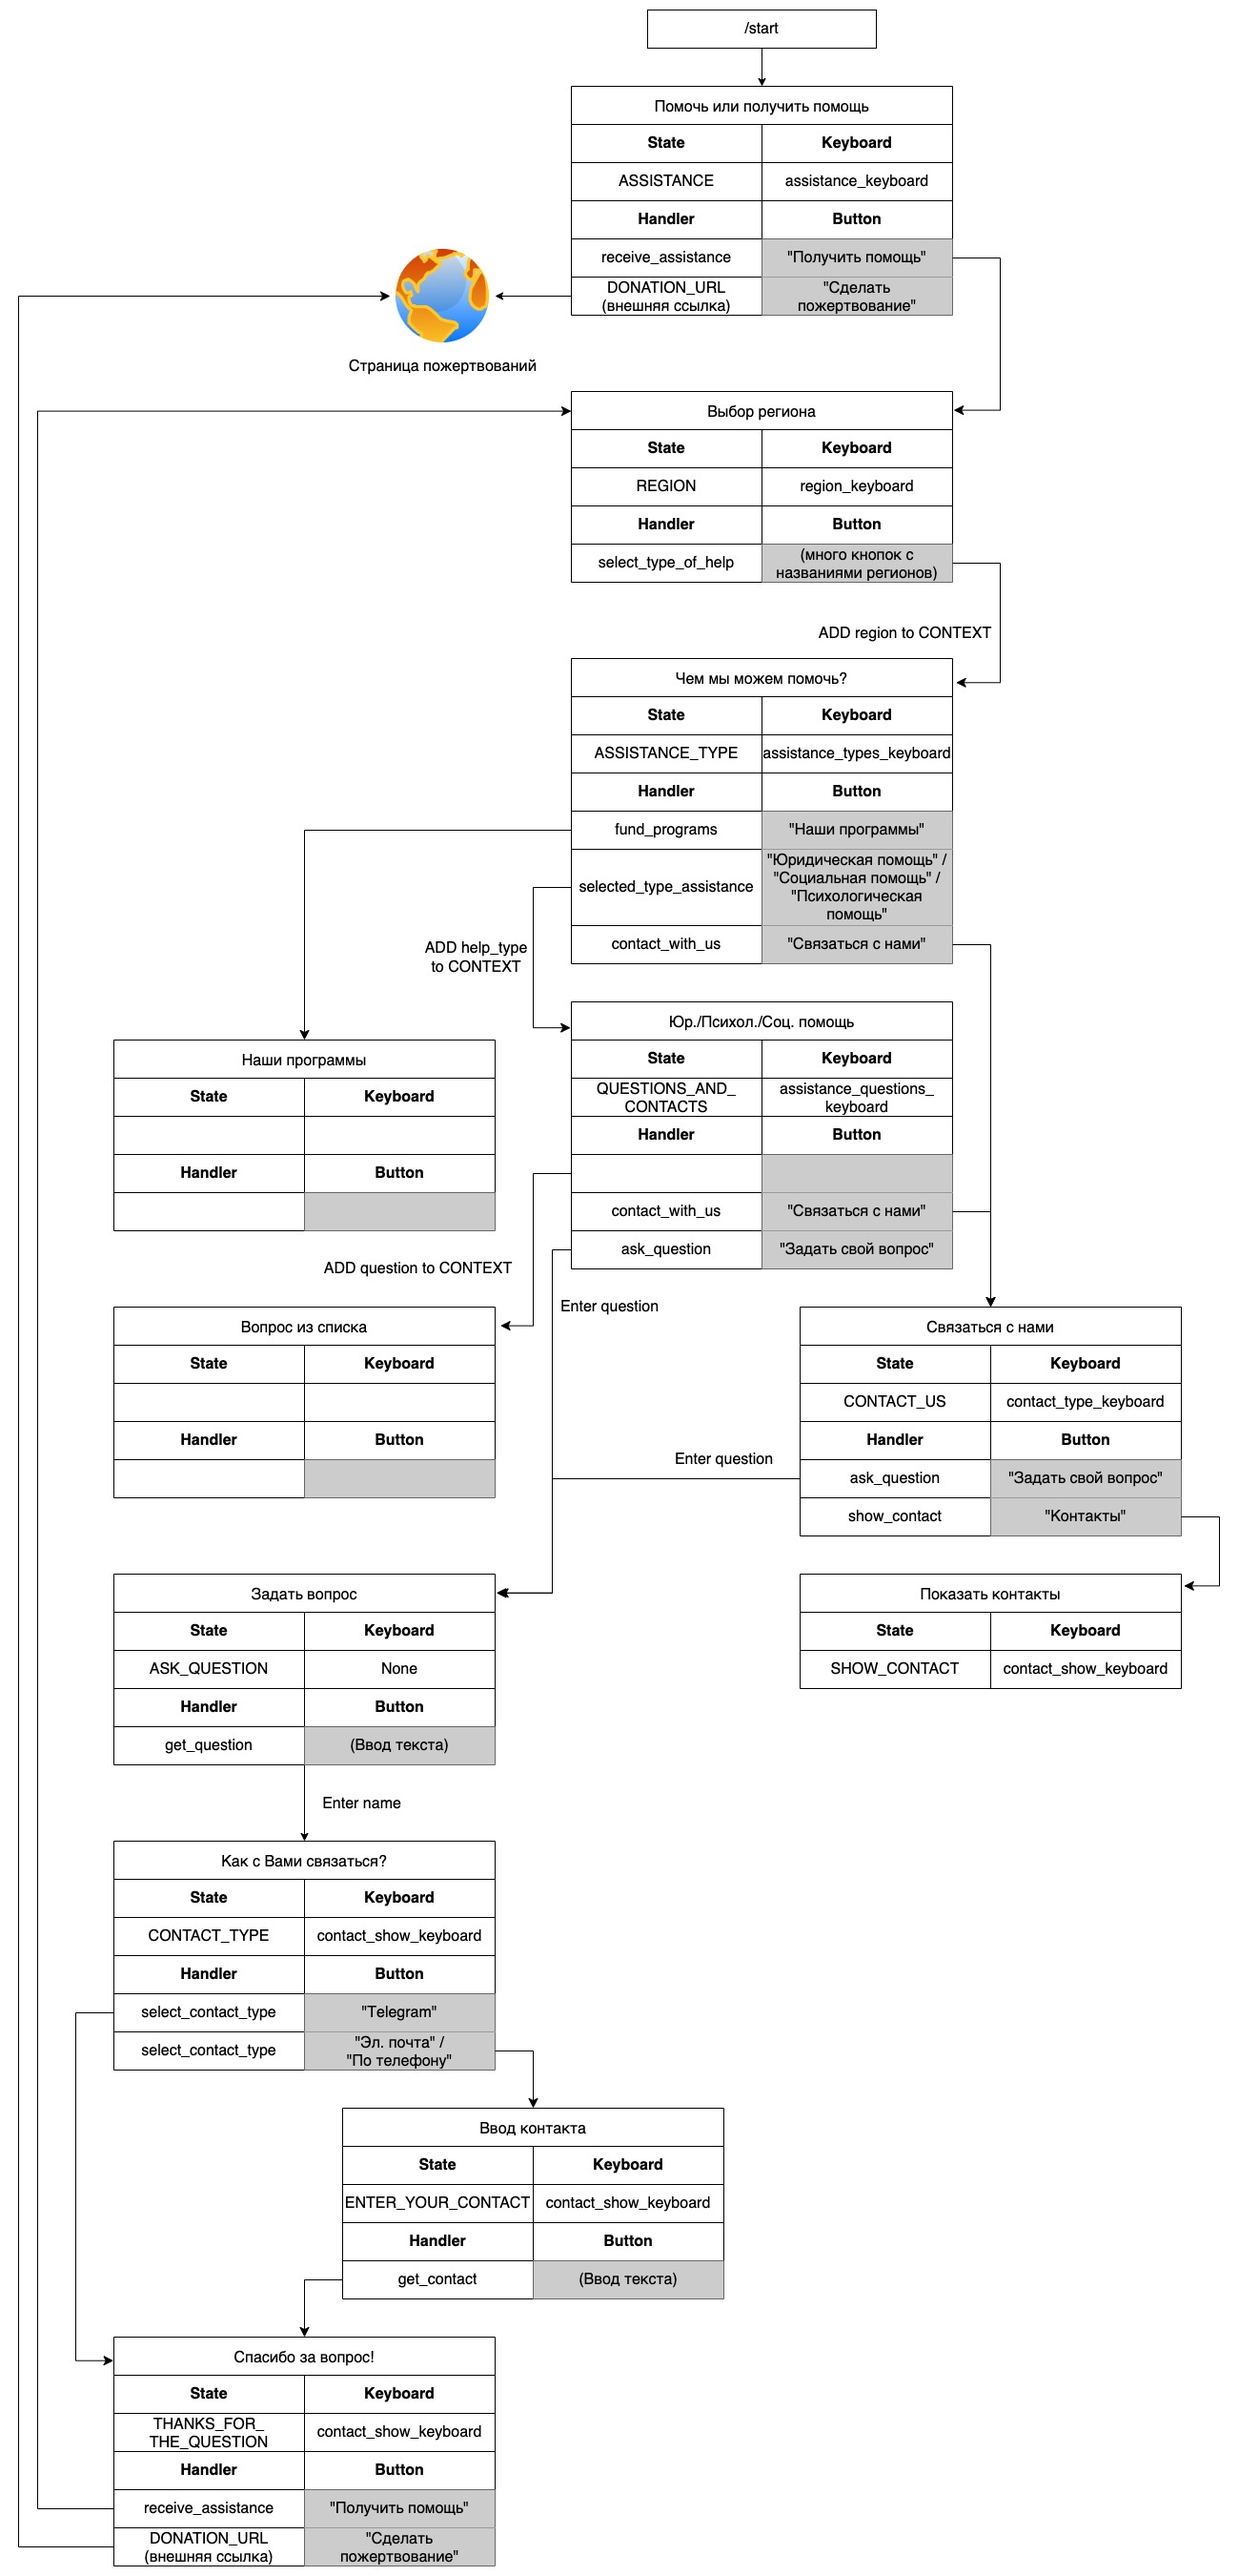
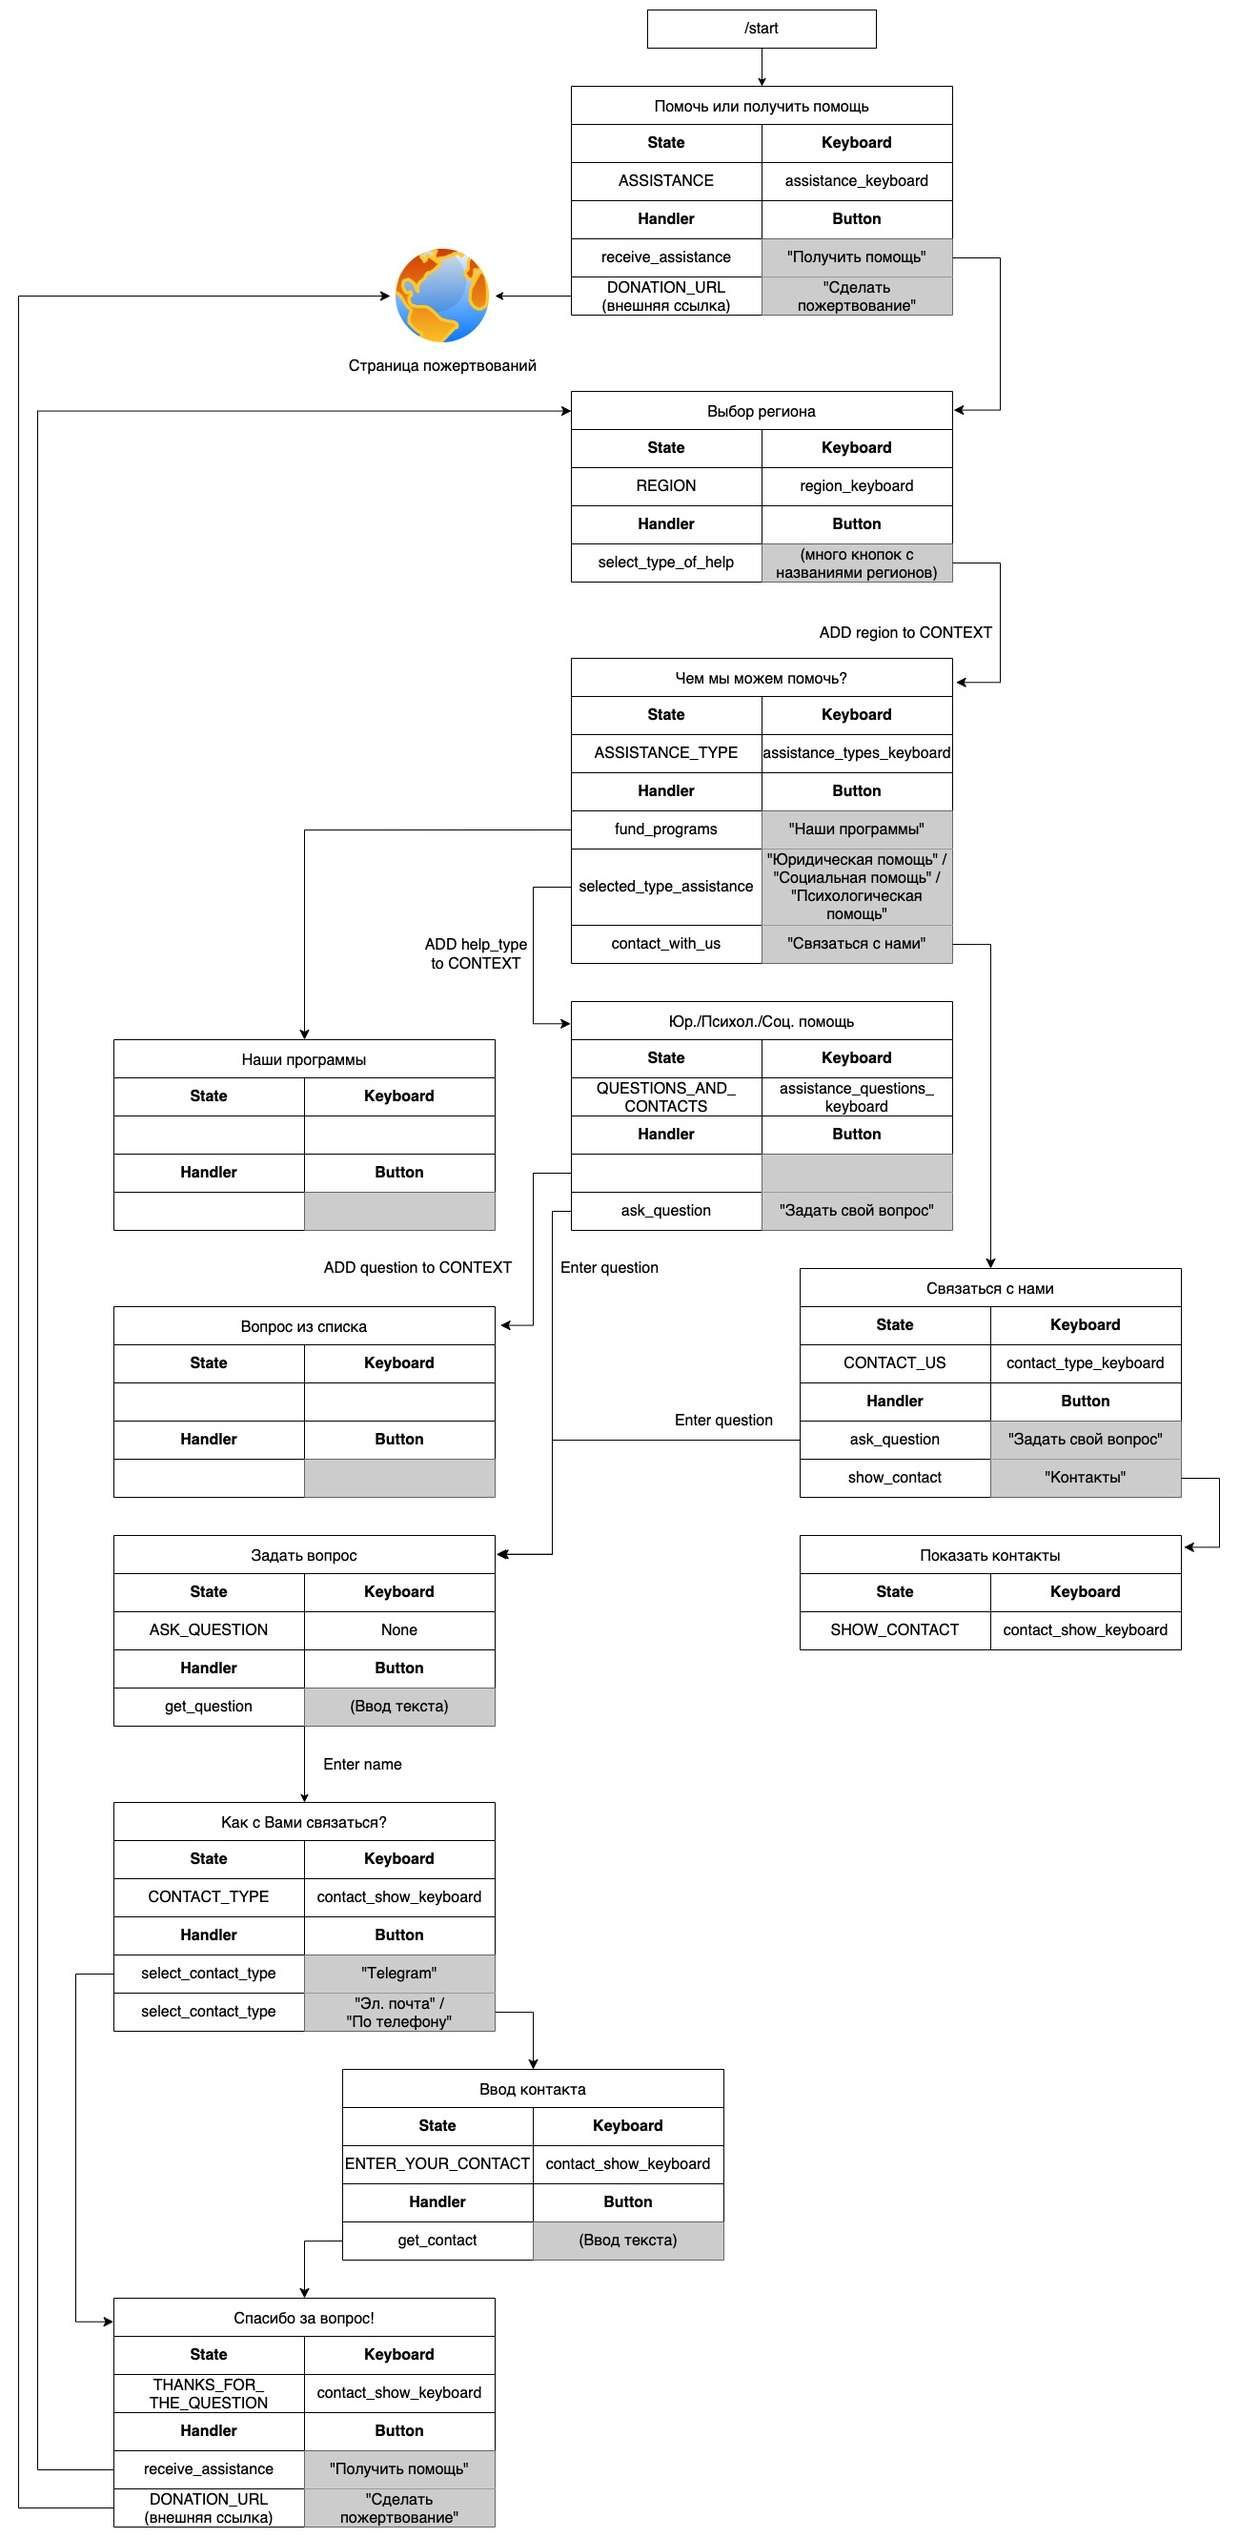
remove contact as button

diff --git a/src/run_bot.py b/src/run_bot.py
@@ -129,10 +129,6 @@ def main():
                     ask_question,
                     pattern=PATTERN.format(state=States.ASK_QUESTION.value),
                 ),
-                CallbackQueryHandler(
-                    contact_with_us,
-                    pattern=PATTERN.format(state=States.CONTACT_US.value),
-                ),
             ],
             States.CONTACT_US: [
                 CallbackQueryHandler(

diff --git a/src/bot/keyboards/assistance_types.py b/src/bot/keyboards/assistance_types.py
@@ -65,14 +65,6 @@ assistance_questions_keyboard = [
 assistance_questions_keyboard.append(
     [
         InlineKeyboardButton(
-            text=CONTACT_US_BUTTON, callback_data=States.CONTACT_US.value
-        )
-    ]
-)
-
-assistance_questions_keyboard.append(
-    [
-        InlineKeyboardButton(
             text=ASK_QUESTION, callback_data=States.ASK_QUESTION.value
         )
     ]
